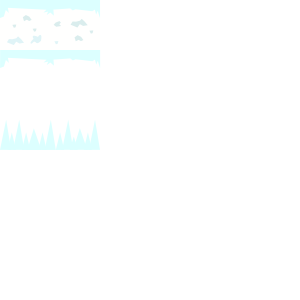
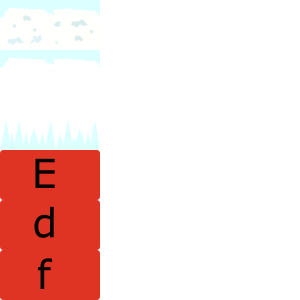
ajout des slots de départs

Changed region(s): [[0.0, 0.48, 0.36, 1.0]]

diff --git a/src/game/map/Administrator.py b/src/game/map/Administrator.py
@@ -23,7 +23,7 @@ class Administrator():
         self.image["save"] = self.image["sprite"].subsurface(100, 0, 100, 40)
 
         self.cadres = [pygame.Surface((1920, 1080)), pygame.Surface((420, 580)), pygame.Surface((400, 470)), pygame.Surface((10, 3)),
-                        pygame.Surface((400, 50)), pygame.Surface((195, 50))]
+                        pygame.Surface((400, 50)), pygame.Surface((195, 50)), pygame.Surface((195, 50))]
         self.cadres[0].fill((50, 50, 50))
         self.cadres[1].fill((80, 80, 80))
         self.cadres[2].fill((60, 60, 60))
@@ -34,11 +34,12 @@ class Administrator():
                         "desert": self.image["desert"].get_rect().move((910,320)), "snow": self.image["snow"].get_rect().move((1040,320)),
                         "castle": self.image["castle"].get_rect().move((780,450)), "forest": self.image["forest"].get_rect().move((910,450)),
                         "sugar": self.image["sugar"].get_rect().move((1040,450)), "inputTitle": self.cadres[4].get_rect().move((760, 250)),
-                        "save": self.image["save"].get_rect() }
+                        "save": self.image["save"].get_rect().move(910, 600), "inputWidth": self.cadres[5].get_rect().move((760, 310)),
+                        "inputHeight": self.cadres[6].get_rect().move((965, 310)) }
 
         self.datas = []
         self.current = {"run": True, "type": False, "list": 0, "input": False}
-        self.values = {"map": False, "title": ""}
+        self.values = {"map": False, "title": "", "width": "", "height": ""}
 
         self.loadWorlds()
 
@@ -51,10 +52,8 @@ class Administrator():
                     editor.render()
                 self.current["type"] = False
             elif self.current["type"] == "levelCreating":
-                pass
-            elif self.current["type"] == "worldEditing":
-                pass
-            elif self.current["type"] == "worldCreating":
+                self.renderLevelCreating()
+            elif self.current["type"] in ["worldEditing", "worldCreating"]:
                 self.renderWorldCreating()
             else:
                 self.renderMenu()
@@ -76,37 +75,72 @@ class Administrator():
                     lettre = event.dict['unicode']
                     if ('a' <= lettre <= 'z' or 'A' <= lettre <= 'Z' or '0' <= lettre <= '9') and self.current["input"] == "title":
                         self.values["title"] = self.values["title"] + lettre
+                    elif event.key == pygame.K_BACKSPACE:
+                        self.values["title"] = self.values["title"][:-1]
+                elif self.current["type"] in "levelCreating":
+                    lettre = event.dict['unicode']
+                    if ('a' <= lettre <= 'z' or 'A' <= lettre <= 'Z' or '0' <= lettre <= '9') and self.current["input"] == "title":
+                        self.values["title"] = self.values["title"] + lettre
+                    elif ('0' <= lettre <= '9') and self.current["input"] == "width":
+                        self.values["width"] = self.values["width"] + lettre
+                    elif ('0' <= lettre <= '9') and self.current["input"] == "height":
+                        self.values["height"] = self.values["height"] + lettre
+                    elif event.key == pygame.K_BACKSPACE:
+                        self.values[self.current["input"]] = self.values[self.current["input"]][:-1]
             if event.type == pygame.MOUSEBUTTONDOWN:
                 if event.button == 1:
                     if self.current["type"] == False:
                         if self.rects["edit"].collidepoint(mouse) and self.datas[self.current["list"]][1] == "level":
                             self.current["type"] = "levelEditing"
                         elif self.rects["create"].collidepoint(mouse) and self.datas[self.current["list"]][1] == "level":
+                            self.values = {"map": False, "title": "", "width": "", "height": ""}
                             self.current["type"] = "levelCreating"
                         elif self.rects["create"].collidepoint(mouse) and self.datas[self.current["list"]][1] == "world":
                             self.current["type"] = "worldCreating"
-                            self.values["title"] == ""
+                            self.values = {"title": "", "map": False}
                         elif self.rects["edit"].collidepoint(mouse) and self.datas[self.current["list"]][1] == "world":
                             self.current["type"] = "worldEditing"
+                            self.values = {"title": self.datas[self.current["list"]][0], "map": self.datas[self.current["list"]][2]}
+                        elif self.rects["remove"].collidepoint(mouse) and self.datas[self.current["list"]][1] == "world":
+                            self.remove(self.datas[self.current["list"]][0], False)
+                        elif self.rects["remove"].collidepoint(mouse) and self.datas[self.current["list"]][1] == "level":
+                            self.remove(self.datas[self.current["list"]][2], self.datas[self.current["list"]][0])
                     elif self.current["type"] in ["worldCreating", "worldEditing"]:
                         if self.rects["countryside"].collidepoint(mouse):
                             self.values["map"] = "countryside"
+                            self.current["input"] = False
                         elif self.rects["desert"].collidepoint(mouse):
                             self.values["map"] = "desert"
+                            self.current["input"] = False
                         elif self.rects["snow"].collidepoint(mouse):
                             self.values["map"] = "snow"
+                            self.current["input"] = False
                         elif self.rects["castle"].collidepoint(mouse):
                             self.values["map"] = "castle"
+                            self.current["input"] = False
                         elif self.rects["forest"].collidepoint(mouse):
                             self.values["map"] = "forest"
+                            self.current["input"] = False
                         elif self.rects["sugar"].collidepoint(mouse):
                             self.values["map"] = "sugar"
+                            self.current["input"] = False
                         elif self.rects["inputTitle"].collidepoint(mouse):
                             self.current["input"] = "title"
                         elif self.rects["save"].collidepoint(mouse):
-                            print("save")
-                        else: self.current["input"] = False
-
+                            self.saveWorld(self.values["map"], self.values["title"])
+                        else:
+                            self.current["input"] = False
+                    elif self.current["type"] == "levelCreating":
+                        if self.rects["inputTitle"].collidepoint(mouse):
+                            self.current["input"] = "title"
+                        elif self.rects["inputWidth"].collidepoint(mouse):
+                            self.current["input"] = "width"
+                        elif self.rects["inputHeight"].collidepoint(mouse):
+                            self.current["input"] = "height"
+                        elif self.rects["save"].collidepoint(mouse):
+                            self.saveLevel(self.datas[self.current["list"]][2], self.values["title"], self.values["width"], self.values["height"])
+                        else:
+                            self.current["input"] = False
         return True
 
     def renderMenu(self):
@@ -139,7 +173,7 @@ class Administrator():
             self.cadres[4].fill((60, 60, 60))
         self.fenetre.blit(self.cadres[4], (760, 250))
         titleLabel = self.ecriture[0].render(str(self.values["title"]), 1, (255,255,255))
-        self.fenetre.blit(titleLabel, (770, 255))
+        self.fenetre.blit(titleLabel, (770, 250))
 
         self.fenetre.blit(self.image["countryside"], (780, 320))
         self.fenetre.blit(self.image["desert"], (910, 320))
@@ -154,18 +188,84 @@ class Administrator():
 
         pygame.display.flip()
 
+    def renderLevelCreating(self):
+        self.fenetre.blit(self.cadres[0], (0, 0))
+        self.fenetre.blit(self.cadres[1], (750, 240))
+
+        self.cadres[4].fill((60, 60, 60))
+        self.cadres[5].fill((60, 60, 60))
+        self.cadres[6].fill((60, 60, 60))
+        if self.current["input"] == "title":
+            self.cadres[4].fill((70, 70, 70))
+        elif self.current["input"] == "width":
+            self.cadres[5].fill((70, 70, 70))
+        elif self.current["input"] == "height":
+            self.cadres[6].fill((70, 70, 70))
+        self.fenetre.blit(self.cadres[4], (760, 250))
+        self.fenetre.blit(self.cadres[5], (760, 310))
+        self.fenetre.blit(self.cadres[6], (965, 310))
+
+        titleLabel = self.ecriture[0].render(str(self.values["title"]), 1, (255,255,255))
+        self.fenetre.blit(titleLabel, (770, 250))
+        widthLabel = self.ecriture[0].render(str(self.values["width"]), 1, (255,255,255))
+        self.fenetre.blit(widthLabel, (770, 310))
+        heightLabel = self.ecriture[0].render(str(self.values["height"]), 1, (255,255,255))
+        self.fenetre.blit(heightLabel, (970, 310))
+
+        self.fenetre.blit(self.image["save"], (910, 600))
+
+        pygame.display.flip()
+
     def loadWorlds(self):
         file = open('../data/map.json', 'r')
         content = json.load(file)
+        self.datas = []
         for key in content:
-            self.datas.append([key, "world"])
+            self.datas.append([key, "world", content[key]["limit"][4]])
             for cle in content[key]:
                 if cle != "limit":
                     self.datas.append([cle, "level", key])
         file.close()
 
-    def createLevel(self, world):
-        file = open('../data/map.json', 'r')
+    def saveLevel(self, word, title, width, height):
+        file = open('../data/map.json', 'r+')
         content = json.load(file)
-        content[world]["temp"] = []
+        newMap = {"limit": [0, 0, int(width) * 100, int(height) * 50], "plateforme": {}, "piege": {}, "colorPlateforme": {}}
+        content[word][title] = newMap
+        file.seek(0)
+        json.dump(content, file)
+        file.truncate()
         file.close()
+        self.loadWorlds()
+        self.current["type"] = False
+
+    def saveWorld(self, decor, title):
+        file = open('../data/map.json', 'r+')
+        content = json.load(file)
+        if self.current["type"] == "worldEditing":
+            newMap = content[self.datas[self.current["list"]][0]]
+            newMap["limit"][4] = decor
+            del content[self.datas[self.current["list"]][0]]
+        elif self.current["type"] == "worldCreating":
+            newMap = {"limit": [0, 0, 0, 0, decor]}
+        content[title] = newMap
+        file.seek(0)
+        json.dump(content, file)
+        file.truncate()
+        file.close()
+        self.loadWorlds()
+        self.current["type"] = False
+
+    def remove(self, world, level):
+        print("remove")
+        file = open('../data/map.json', 'r+')
+        content = json.load(file)
+        if level != False:
+            del content[world][level]
+        else:
+            del content[world]
+        file.seek(0)
+        json.dump(content, file)
+        file.truncate()
+        file.close()
+        self.loadWorlds()

diff --git a/src/game/map/Map.py b/src/game/map/Map.py
@@ -16,7 +16,7 @@ class Map:
         self.zone = 0
         self.posZone = 0
         self.image = {"sprite": 0, "plateforme": 0, "piege": 0, "colorPlateforme": 0}
-        self.rects = {"plateforme": [], "piege": [], "colorPlateforme": []}
+        self.rects = {"plateforme": [], "piege": [], "colorPlateforme": [], "start": [], "finish": []}
         self.music = ''
         ##appel de fonction
         self.generateMap(self.mapId)
@@ -44,8 +44,11 @@ class Map:
                 self.setPlateforme(data[i]["plateforme"])
                 self.setPiege(data[i]["piege"])
                 self.setColorPlateforme(data[i]["colorPlateforme"])
+                self.rects["debut"] = self.image["debut"][1].move((data[i]["debut"][2], data[i]["debut"][3]))
+                self.rects["fin"] = self.image["fin"][1].move((data[i]["fin"][2], data[i]["fin"][3]))
                 ##choix de la vue de la zone de jeu
                 self.setCamera(1000,1100)
+        print(self.rects)
 
     def loadMap(self, mapId, zoneId):
         ##chargement des données du fichier JSON, du sprite et de la musique correspondants
@@ -60,6 +63,11 @@ class Map:
         self.image["piege"] = [piege, piege.get_rect()]
         colorPlateforme = self.image["sprite"].subsurface(0, 50, 100, 50)
         self.image["colorPlateforme"] = [colorPlateforme, colorPlateforme.get_rect()]
+
+        debut = self.image["sprite"].subsurface(0, 200, 100, 50)
+        self.image["debut"] = [debut, debut.get_rect()]
+        fin = self.image["sprite"].subsurface(0, 250, 100, 50)
+        self.image["fin"] = [fin, fin.get_rect()]
         ##on retourne les données chargées
         if zoneId != False:
             return content[mapId][zoneId]
